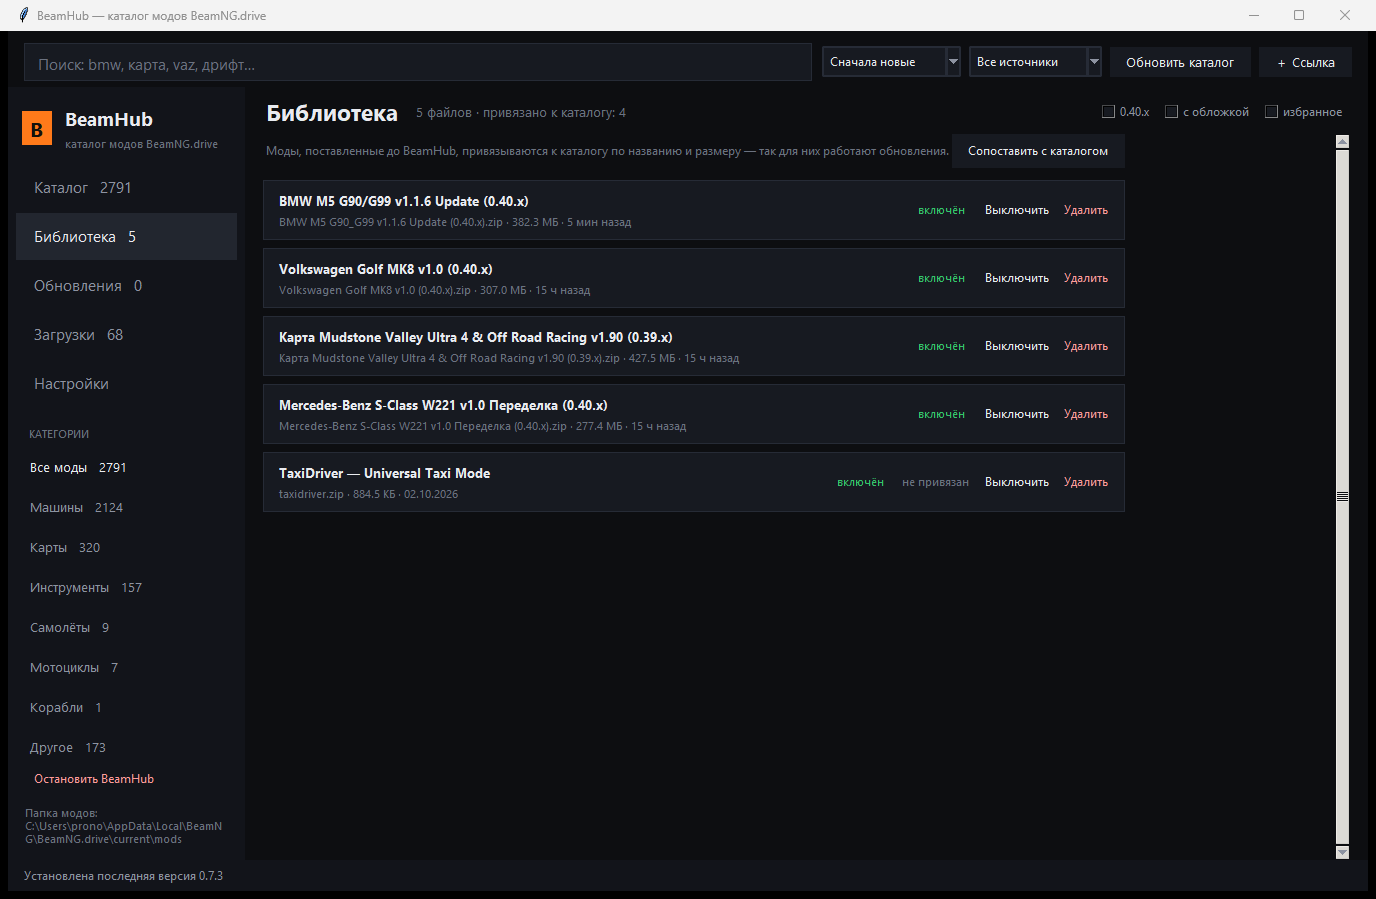
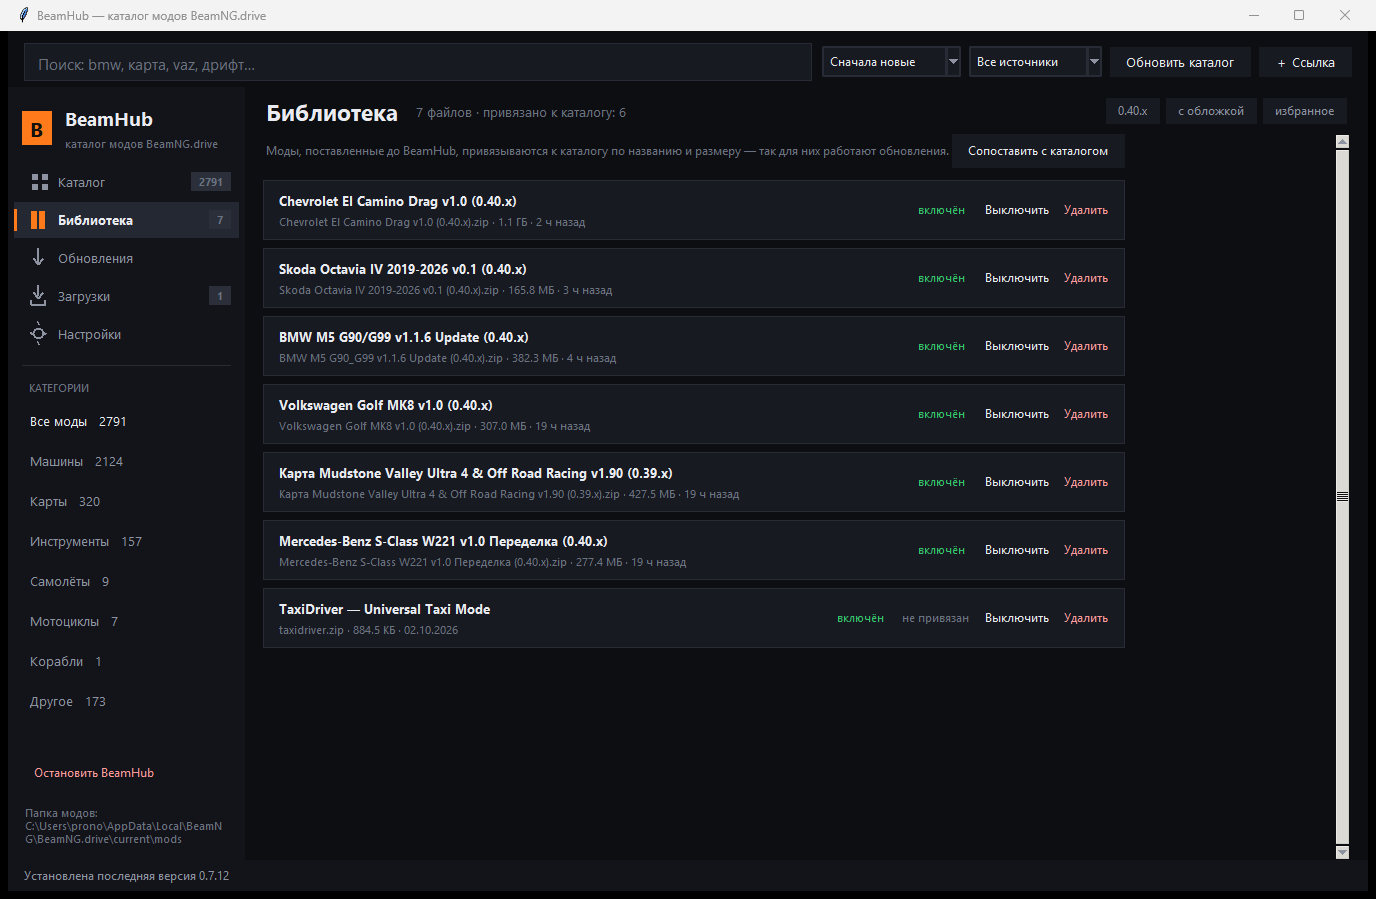
Интерфейс: иконки и подсветка в навигации, бейджи-счётчики, фильтры-чипы, уведомления, подсветка карточек

diff --git a/core/tkui.py b/core/tkui.py
@@ -22,6 +22,8 @@ MUTED = "#8d93a1"
 DIM = "#6b7280"
 ACCENT = "#ff7a1a"
 GREEN = "#35c46b"
+HOVER_BG = "#1b1f28"
+ACTIVE_BG = "#232833"
 DUP_BG = "#2a1618"
 DUP_LINE = "#7a2f33"
 SOURCE_NAMES = {"playground": "playground.ru", "modsgaming": "modsgaming.ru",
@@ -200,12 +202,16 @@ class App:
         self.filter_game = tk.BooleanVar(value=False)
         self.filter_image = tk.BooleanVar(value=False)
         self.filter_fav = tk.BooleanVar(value=False)
-        for text, var in (("0.40.x", self.filter_game), ("с обложкой", self.filter_image),
-                          ("избранное", self.filter_fav)):
-            tk.Checkbutton(filters, text=text, variable=var, bg=BG, fg=MUTED,
-                           selectcolor=PANEL, activebackground=BG, activeforeground=TEXT,
-                           font=("Segoe UI", 9), command=self.on_filters,
-                           padx=4).pack(side="left")
+        self.filter_chips: dict[str, tk.Button] = {}
+        for text, var, key in (("0.40.x", self.filter_game, "game"),
+                               ("с обложкой", self.filter_image, "image"),
+                               ("избранное", self.filter_fav, "fav")):
+            chip = tk.Button(filters, text=text, bg=PANEL, fg=MUTED, relief="flat",
+                             font=("Segoe UI", 9), padx=10, pady=3, cursor="hand2",
+                             activebackground=ACTIVE_BG, activeforeground=TEXT, bd=0,
+                             command=lambda v=var, k=key: self._toggle_chip(v, k))
+            chip.pack(side="left", padx=3)
+            self.filter_chips[key] = chip
 
         self.content = tk.Frame(self.main, bg=BG)
         self.content.grid(row=1, column=0, sticky="nsew", padx=18, pady=(4, 0))
@@ -223,6 +229,12 @@ class App:
                                font=("Segoe UI", 9), padx=14, pady=6)
         self.status.grid(row=2, column=0, sticky="ew")
 
+    NAV_ITEMS = (("catalog", "Каталог", "grid"),
+                 ("library", "Библиотека", "book"),
+                 ("updates", "Обновления", "arrow"),
+                 ("inbox", "Загрузки", "tray"),
+                 ("settings", "Настройки", "gear"))
+
     def _build_sidebar(self) -> None:
         brand = tk.Frame(self.sidebar, bg=SOFT)
         brand.pack(fill="x", padx=14, pady=(16, 10))
@@ -235,19 +247,32 @@ class App:
         tk.Label(titles, text="каталог модов BeamNG.drive", bg=SOFT, fg=DIM,
                  font=("Segoe UI", 8), anchor="w").pack(anchor="w")
 
-        self.nav_buttons: dict[str, tk.Button] = {}
-        for key, label in (("catalog", "Каталог"), ("library", "Библиотека"),
-                           ("updates", "Обновления"), ("inbox", "Загрузки"),
-                           ("settings", "Настройки")):
-            button = tk.Button(self.sidebar, text=label, anchor="w", bg=SOFT, fg=MUTED,
-                               activebackground="#191c24", activeforeground=TEXT,
-                               relief="flat", font=("Segoe UI", 11), padx=14, pady=7,
-                               cursor="hand2", command=lambda k=key: self.switch(k))
-            button.pack(fill="x", padx=8, pady=1)
-            self.nav_buttons[key] = button
+        self.nav_buttons: dict[str, tk.Frame] = {}
+        self.nav_parts: dict[str, dict] = {}
+        for key, title, icon in self.NAV_ITEMS:
+            row = tk.Frame(self.sidebar, bg=SOFT, cursor="hand2", height=36)
+            row.pack(fill="x", padx=6, pady=1)
+            row.pack_propagate(False)
+            bar = tk.Canvas(row, width=3, bg=SOFT, highlightthickness=0, bd=0)
+            bar.pack(side="left", fill="y")
+            icon_canvas = tk.Canvas(row, width=24, height=36, bg=SOFT, highlightthickness=0, bd=0)
+            icon_canvas.pack(side="left", padx=(10, 4))
+            label = tk.Label(row, text=title, bg=SOFT, fg=MUTED, font=("Segoe UI", 10), anchor="w")
+            label.pack(side="left", fill="x", expand=True)
+            badge = tk.Label(row, text="", bg=SOFT, fg=DIM, font=("Segoe UI", 8, "bold"), padx=6)
+            badge.pack(side="right", padx=(4, 8))
+            self._draw_icon(icon_canvas, icon, MUTED)
+            self.nav_parts[key] = {"row": row, "bar": bar, "icon": icon_canvas, "kind": icon,
+                                   "label": label, "badge": badge}
+            self.nav_buttons[key] = row
+            for widget in (row, bar, icon_canvas, label, badge):
+                widget.bind("<Button-1>", lambda _e, k=key: self.switch(k))
+                widget.bind("<Enter>", lambda _e, k=key: self._nav_hover(k, True))
+                widget.bind("<Leave>", lambda _e, k=key: self._nav_hover(k, False))
 
+        tk.Frame(self.sidebar, bg=LINE, height=1).pack(fill="x", padx=14, pady=(12, 8))
         tk.Label(self.sidebar, text="КАТЕГОРИИ", bg=SOFT, fg=DIM, font=("Segoe UI", 8),
-                 anchor="w").pack(fill="x", padx=18, pady=(16, 4))
+                 anchor="w").pack(fill="x", padx=18, pady=(4, 4))
         self.cat_frame = tk.Frame(self.sidebar, bg=SOFT)
         self.cat_frame.pack(fill="both", expand=True, padx=8)
 
@@ -262,6 +287,136 @@ class App:
                   font=("Segoe UI", 9), anchor="w", padx=14, pady=6, cursor="hand2",
                   command=self.on_quit).pack(side="bottom", fill="x", padx=8)
 
+    def _draw_icon(self, canvas: tk.Canvas, kind: str, color: str) -> None:
+        """Иконки рисуем сами: emoji в tkinter выглядят по-разному на разных Windows."""
+        canvas.delete("all")
+        if kind == "grid":
+            for dx, dy in ((0, 0), (10, 0), (0, 10), (10, 10)):
+                canvas.create_rectangle(5 + dx, 10 + dy, 11 + dx, 16 + dy, fill=color, width=0)
+        elif kind == "book":
+            canvas.create_rectangle(4, 9, 10, 27, fill=color, width=0)
+            canvas.create_rectangle(12, 9, 18, 27, fill=color, width=0)
+        elif kind == "arrow":
+            canvas.create_line(11, 8, 11, 23, fill=color, width=2)
+            canvas.create_line(6, 18, 11, 24, 16, 18, fill=color, width=2)
+        elif kind == "tray":
+            canvas.create_line(4, 22, 4, 27, 18, 27, 18, 22, fill=color, width=2)
+            canvas.create_line(11, 7, 11, 18, fill=color, width=2)
+            canvas.create_line(6, 14, 11, 20, 16, 14, fill=color, width=2)
+        elif kind == "gear":
+            canvas.create_oval(6, 12, 16, 22, outline=color, width=2)
+            for coords in ((10, 5, 12, 9), (10, 25, 12, 29), (3, 16, 6, 18), (16, 16, 19, 18)):
+                canvas.create_line(*coords, fill=color, width=2)
+
+    def _nav_background(self, key: str, hover: bool = False) -> str:
+        if key == self.view:
+            return ACTIVE_BG
+        return HOVER_BG if hover else SOFT
+
+    def _paint_nav(self, key: str, hover: bool = False) -> None:
+        parts = self.nav_parts.get(key)
+        if not parts:
+            return
+        active = key == self.view
+        bg = self._nav_background(key, hover)
+        for name in ("row", "bar", "icon", "label"):
+            parts[name].configure(bg=bg)
+        if not parts["badge"].cget("text"):
+            parts["badge"].configure(bg=bg)
+        parts["label"].configure(fg=(TEXT if active else (TEXT if hover else MUTED)),
+                                 font=("Segoe UI", 10, "bold" if active else "normal"))
+        self._draw_icon(parts["icon"], parts["kind"], ACCENT if active else (TEXT if hover else MUTED))
+        parts["bar"].delete("all")
+        if active:
+            parts["bar"].create_rectangle(0, 7, 3, 29, fill=ACCENT, width=0)
+
+    def _nav_hover(self, key: str, on: bool) -> None:
+        if key != self.view:
+            self._paint_nav(key, hover=on)
+
+    def _set_active_nav(self, view: str) -> None:
+        for key in self.nav_parts:
+            self._paint_nav(key)
+            parts = self.nav_parts[key]
+            parts["bar"].delete("all")
+            if key == view:
+                parts["bar"].create_rectangle(0, 7, 3, 29, fill=ACCENT, width=0)
+
+    def set_badge(self, key: str, value: int | str, accent: bool = False) -> None:
+        parts = self.nav_parts.get(key)
+        if not parts:
+            return
+        text = str(value) if value else ""
+        if text:
+            parts["badge"].configure(text=text, bg=(ACCENT if accent else "#2a2f3a"),
+                                     fg=("#1a0f04" if accent else DIM))
+        else:
+            parts["badge"].configure(text="", bg=self._nav_background(key))
+
+    def toast(self, text: str, kind: str = "info") -> None:
+        """Всплывающее уведомление снизу справа — чтобы события не терялись в строке статуса."""
+        palette = {"info": (PANEL, TEXT), "ok": ("#16241a", "#b8e6c2"),
+                   "error": ("#2a1518", "#ffb3b3")}
+        bg, fg = palette.get(kind, palette["info"])
+        try:
+            window = tk.Toplevel(self.root)
+            window.overrideredirect(True)
+            window.attributes("-topmost", True)
+            frame = tk.Frame(window, bg=bg, highlightthickness=1, highlightbackground=LINE)
+            frame.pack(fill="both", expand=True)
+            tk.Label(frame, text=text, bg=bg, fg=fg, font=("Segoe UI", 9),
+                     wraplength=320, justify="left", padx=12, pady=8).pack()
+            window.update_idletasks()
+            width = min(360, frame.winfo_reqwidth())
+            height = frame.winfo_reqheight()
+            x = self.root.winfo_rootx() + self.root.winfo_width() - width - 40
+            y = self.root.winfo_rooty() + self.root.winfo_height() - height - 62
+            window.geometry(f"{width}x{height}+{x}+{y}")
+            window.attributes("-alpha", 0.0)
+
+            def fade(step: float = 0.0) -> None:
+                if step >= 1.0:
+                    window.after(1800, lambda: close(1.0))
+                    return
+                try:
+                    window.attributes("-alpha", step)
+                except tk.TclError:
+                    return
+                window.after(30, lambda: fade(step + 0.12))
+
+            def close(step: float) -> None:
+                if step <= 0.0:
+                    window.destroy()
+                    return
+                try:
+                    window.attributes("-alpha", step)
+                except tk.TclError:
+                    window.destroy()
+                    return
+                window.after(30, lambda: close(step - 0.12))
+
+            fade()
+        except Exception:  # noqa: BLE001
+            self.set_status(text)
+
+    def _toggle_chip(self, var: tk.BooleanVar, key: str) -> None:
+        var.set(not var.get())
+        chip = self.filter_chips.get(key)
+        if chip is not None:
+            on = bool(var.get())
+            chip.configure(bg=("#3a2410" if on else PANEL),
+                           fg=("#ffc79b" if on else MUTED))
+        self.on_filters()
+
+    def _paint_chips(self) -> None:
+        for key, var in (("game", self.filter_game), ("image", self.filter_image),
+                         ("fav", self.filter_fav)):
+            chip = self.filter_chips.get(key)
+            if chip is not None:
+                on = bool(var.get())
+                chip.configure(bg=("#3a2410" if on else PANEL),
+                               fg=("#ffc79b" if on else MUTED))
+
     def refresh_all(self) -> None:
         """Перерисовать текущую вкладку и обновить счётчики в меню."""
         self.switch(self.view)
@@ -270,9 +425,7 @@ class App:
     # ---------------------------------------------------------------- навигация
     def switch(self, view: str) -> None:
         self.view = view
-        for key, button in self.nav_buttons.items():
-            button.configure(bg="#22262f" if key == view else SOFT,
-                             fg=TEXT if key == view else MUTED)
+        self._set_active_nav(view)
         titles = {"catalog": "Каталог модов", "library": "Библиотека",
                   "updates": "Обновления", "inbox": "Загрузки", "settings": "Настройки"}
         self.title_label.configure(text=titles[view])
@@ -439,7 +592,37 @@ class App:
 
         for widget in (thumb, label):
             widget.bind("<Double-Button-1>", lambda _e, i=item: self.details(i))
+        self._bind_card_hover(card, duplicate)
         return card
+
+    def _bind_card_hover(self, card: tk.Frame, duplicate: bool) -> None:
+        """Подсветка карточки при наведении — без мигания, когда ведёшь по дочерним виджетам."""
+        normal = DUP_LINE if duplicate else LINE
+
+        def inside() -> bool:
+            x, y = card.winfo_pointerxy()
+            widget = card.winfo_containing(x, y)
+            while widget is not None:
+                if widget is card:
+                    return True
+                widget = getattr(widget, "master", None)
+            return False
+
+        def enter(_event=None) -> None:
+            card.configure(highlightbackground="#55617a")
+
+        def leave(_event=None) -> None:
+            card.after(30, lambda: None if inside() else card.configure(highlightbackground=normal))
+
+        widgets = [card]
+        pending = list(card.winfo_children())
+        while pending:
+            widget = pending.pop()
+            widgets.append(widget)
+            pending.extend(widget.winfo_children())
+        for widget in widgets:
+            widget.bind("<Enter>", enter, add="+")
+            widget.bind("<Leave>", leave, add="+")
 
     def _request_image(self, url: str, label: tk.Label, item: dict | None = None) -> None:
         cached = self._images.get(url)
@@ -1132,10 +1315,10 @@ class App:
     def _apply_meta(self, state: dict) -> None:
         self.foot_label.configure(text=f"Папка модов:\n{state.get('settings', {}).get('mods_dir', '')}")
         counts = state.get("counts", {})
-        self.nav_buttons["catalog"].configure(text=f"Каталог   {counts.get('mods', 0)}")
-        self.nav_buttons["library"].configure(text=f"Библиотека   {counts.get('installed', 0)}")
-        self.nav_buttons["updates"].configure(text=f"Обновления   {state.get('updates', 0)}")
-        self.nav_buttons["inbox"].configure(text=f"Загрузки   {state.get('inbox_count', 0)}")
+        self.set_badge("catalog", counts.get("mods", 0))
+        self.set_badge("library", counts.get("installed", 0))
+        self.set_badge("updates", state.get("updates", 0), accent=bool(state.get("updates")))
+        self.set_badge("inbox", state.get("inbox_count", 0))
 
         sources = state.get("sources", [])
         if sources:
@@ -1186,7 +1369,13 @@ class App:
                     last = events[-1]
                     self.root.after(0, lambda t=last.get("text", ""): self.set_status(t))
                     for event in events:
-                        if event.get("kind") == "inbox_done":
+                        kind = event.get("kind")
+                        text = event.get("text", "")
+                        if kind in ("installed", "error", "duplicate", "inbox_done"):
+                            tone = "error" if kind == "error" else ("ok" if kind == "installed"
+                                                                    else "info")
+                            self.root.after(0, lambda t=text, k=tone: self.toast(t, k))
+                        if kind == "inbox_done":
                             text = (f"Установлено: {event.get('installed', 0)}\n"
                                     f"Пропущено: {event.get('skipped', 0)}\n"
                                     f"Ошибок: {event.get('failed', 0)}")

diff --git a/core/version.py b/core/version.py
@@ -1,6 +1,6 @@
 """Единственный источник версии приложения."""
 
-VERSION = "0.7.12"
+VERSION = "0.7.13"
 APP_NAME = "BeamHub"
 
 
